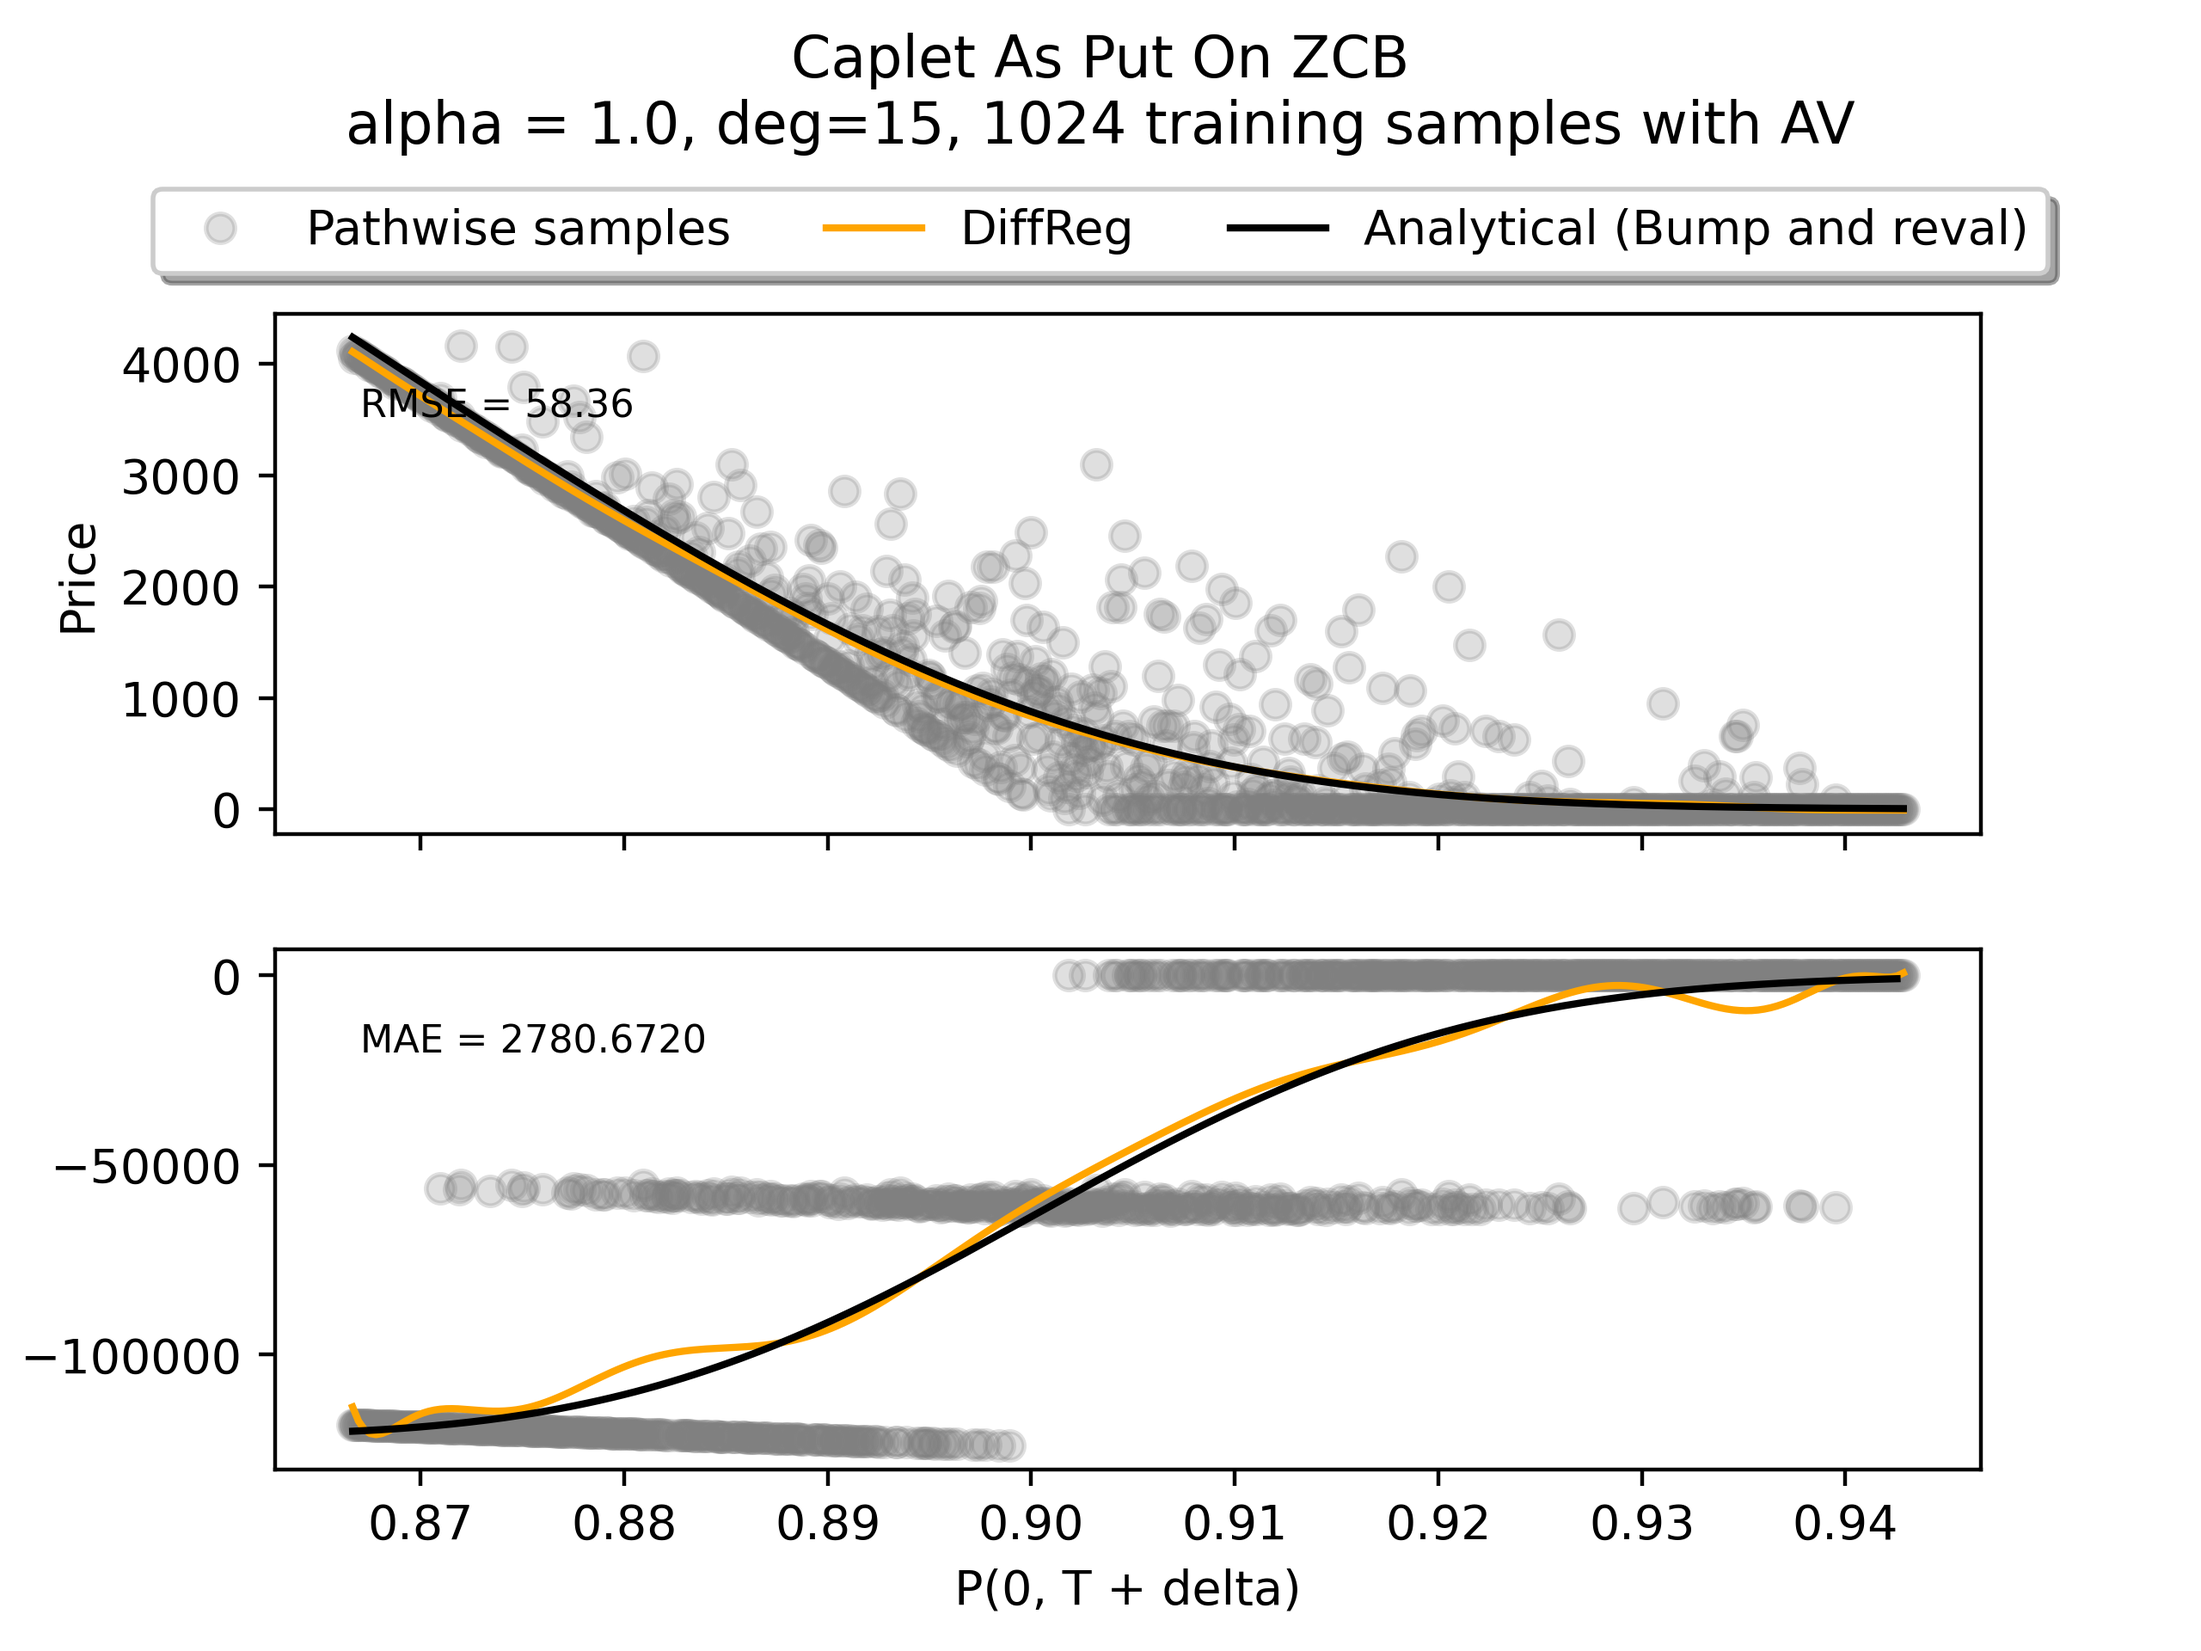
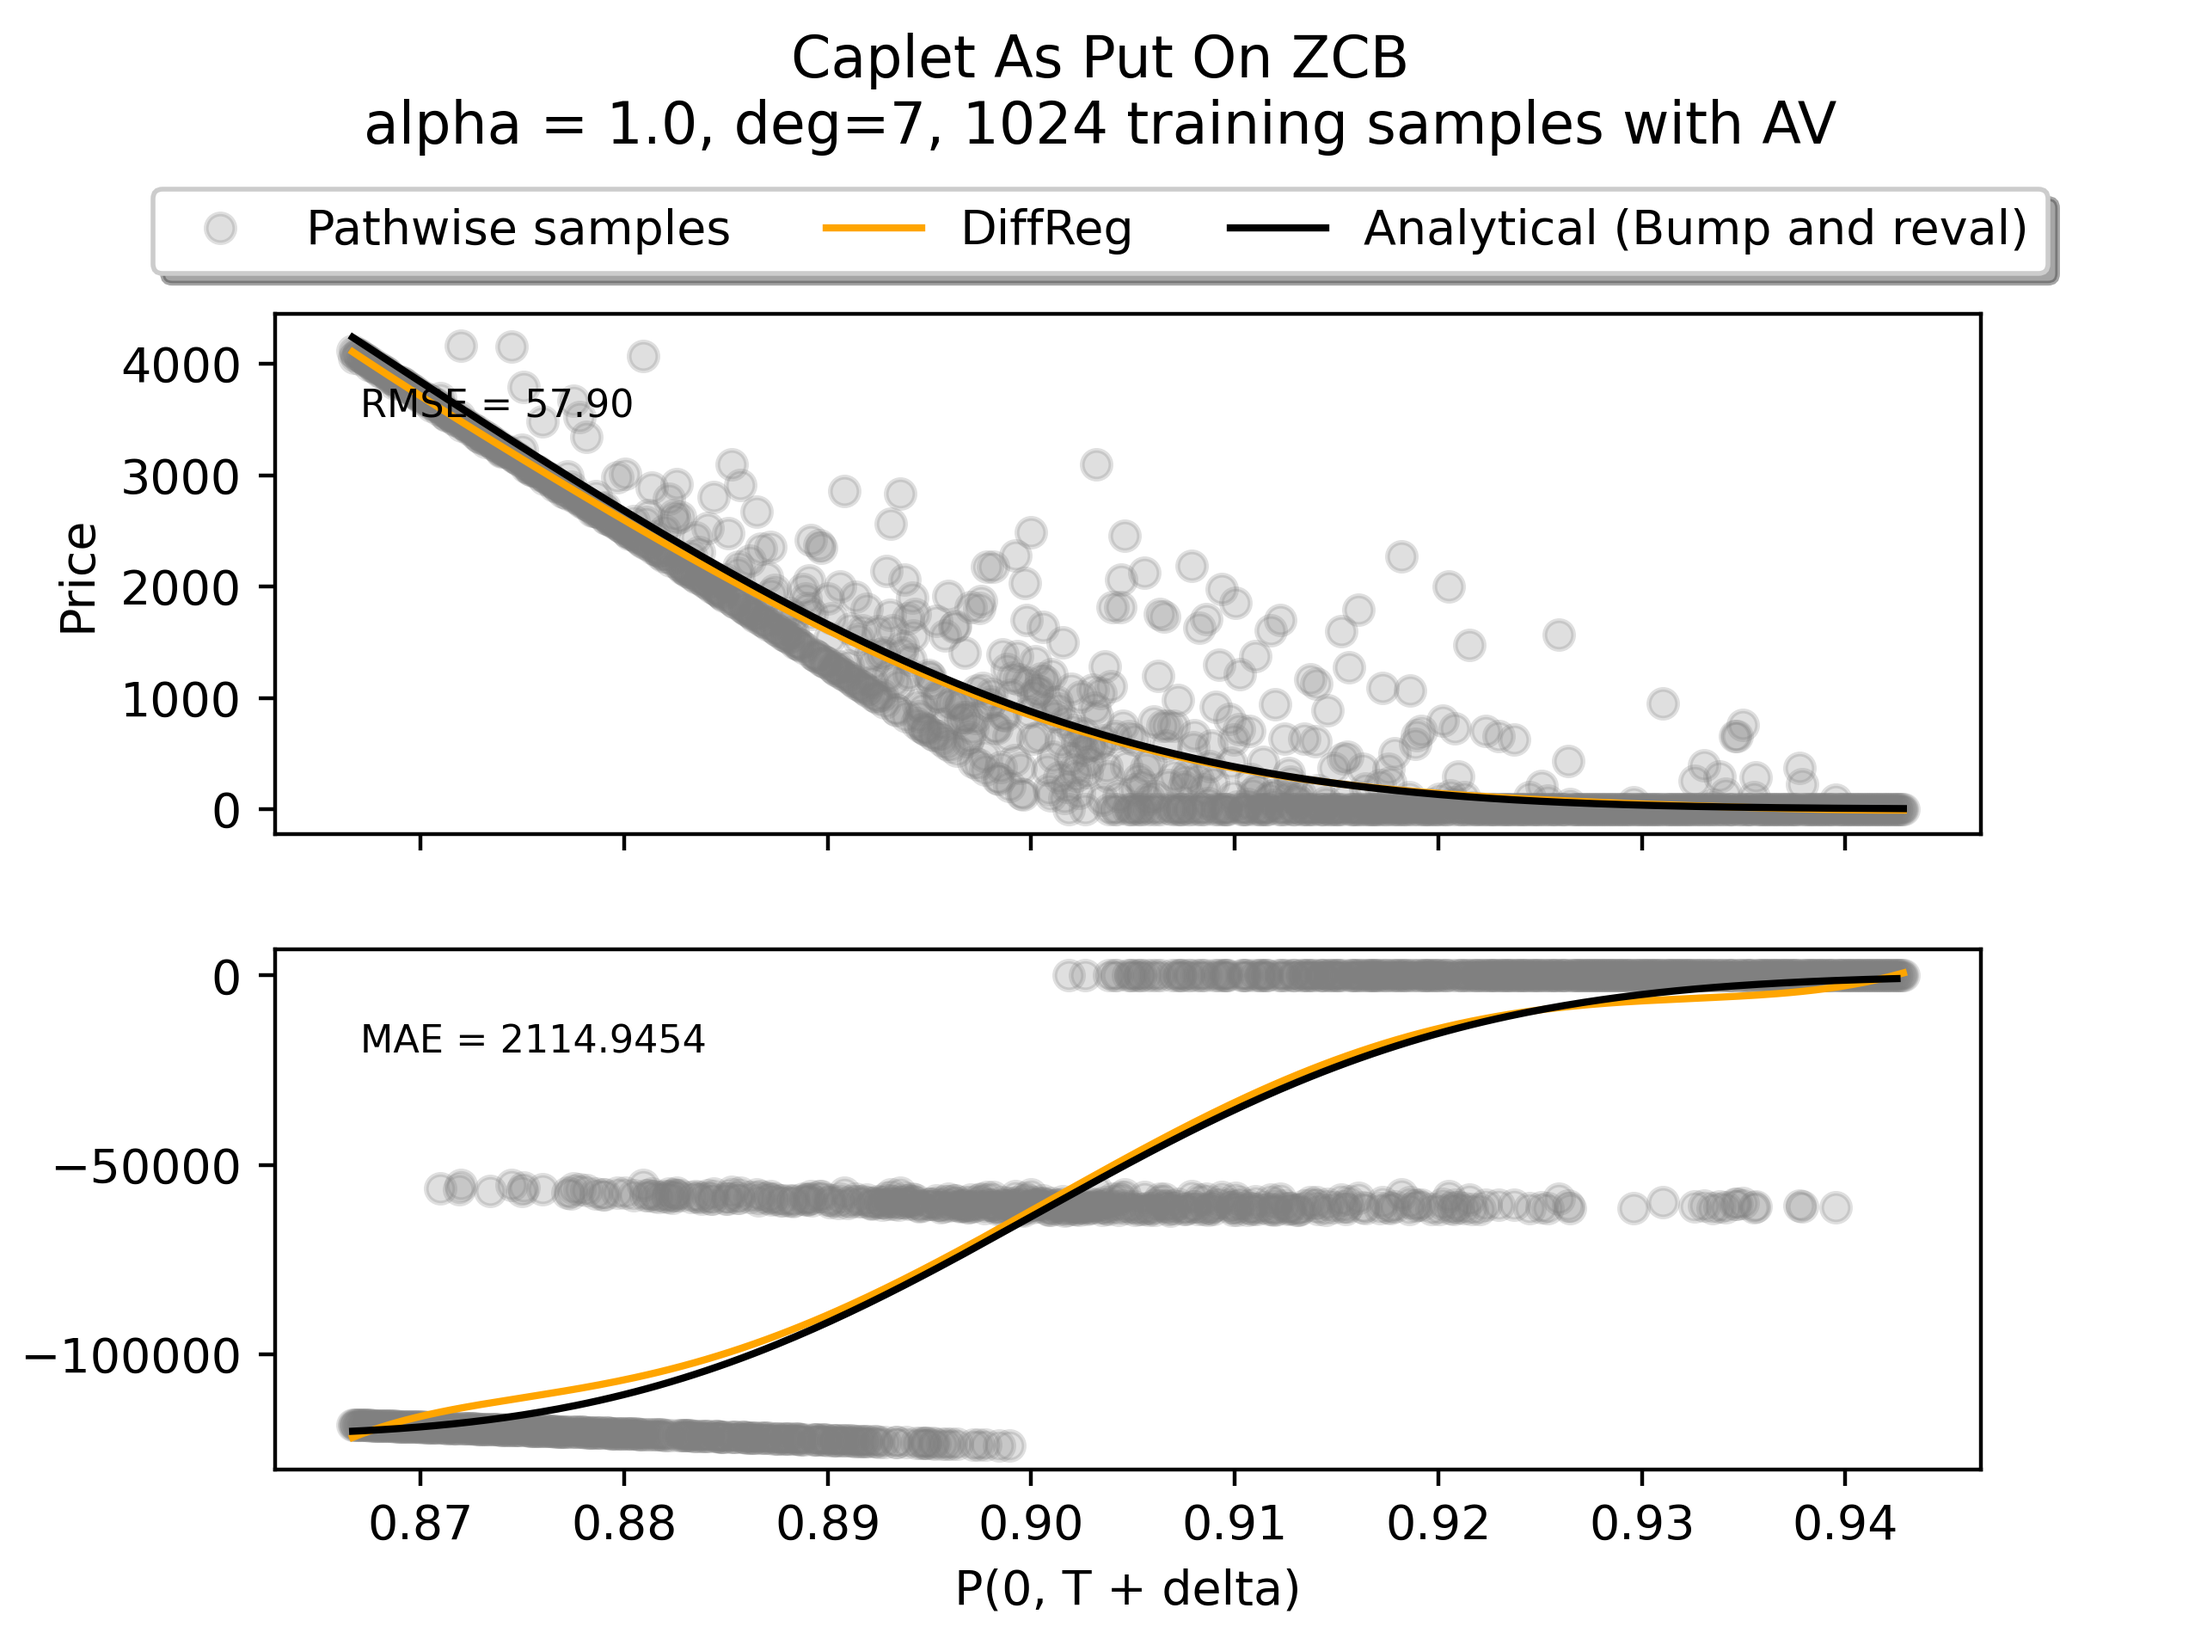
quick fix

diff --git a/application/experiments/vasicek/diff_ML_plots/vasicek_AAD_DiffReg_plot_delta_caplet_as_put_on_zcb.py b/application/experiments/vasicek/diff_ML_plots/vasicek_AAD_DiffReg_plot_delta_caplet_as_put_on_zcb.py
@@ -23,7 +23,7 @@ if __name__ == '__main__':
     r0_vec = torch.linspace(r0_min, r0_max, N_train)
 
     # Setup Differential Regressor, and Scalar
-    deg = 15
+    deg = 7
     alpha = 1.0
     diff_reg = DifferentialPolynomialRegressor(deg=deg, alpha=alpha, use_SVD=True, bias=True)
     scalar = DifferentialStandardScaler()
@@ -125,9 +125,6 @@ if __name__ == '__main__':
     y_mdl = mdl.calc_cpl(r0_test_vec, exerciseDate, delta, strike, notional)[0].reshape(-1, 1)
     z_mdl = y_mdl.diff(dim=0) / X_test.diff(dim=0)
 
-    plt.figure()
-    plt.plot(X_test, z_mdl, 'o')
-    plt.show()
 
     """ Estimate Price and Delta using Differential Regression """
 
